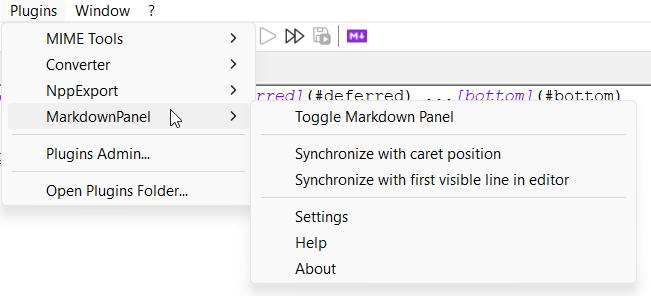
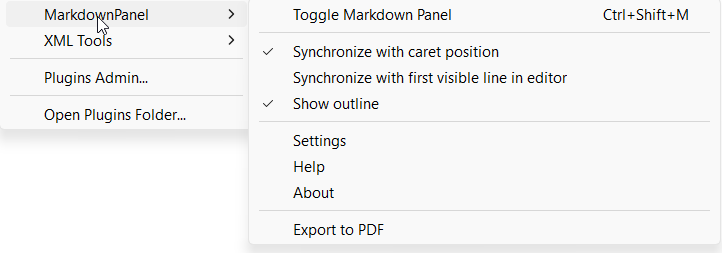
README.md for version 0.9.2 #2

diff --git a/README.md b/README.md
@@ -159,13 +159,21 @@ After that it's possible to use the shortcut to open or close the panel.
 
 ### Version 0.9.2 (released 2026-07-10)
 - Features
-	- Preserve preview scroll position when switching to another file #96
-	- Support (preview) files without an extension #133
-	- Copy to clipboard as formatted text / HTML #128
-	- Text Callouts #141
+	- Allow show/hide of source pane and not just rendered view pane [#138](https://github.com/mohzy83/NppMarkdownPanel/issues/138)) (implemented by letreset)
+		-  see three state toggle
+	- PDF Export [#153](https://github.com/mohzy83/NppMarkdownPanel/issues/153)) (implemented by letreset)
+	- Disable wrapping text [#132](https://github.com/mohzy83/NppMarkdownPanel/issues/132))
+		- min width of 250px introduced
+	- Support of Mermaid [#108](https://github.com/mohzy83/NppMarkdownPanel/issues/108)) (implemented by letreset)
+	- Display document outline [#167](https://github.com/mohzy83/NppMarkdownPanel/issues/167)) (implemented by letreset)
+		- see "Show Outline"
+	- Markdig updated to version 1.3.2
+	- Defer WebView2 initialization (just initialize WebView2 when preview is actually shown) [#164](https://github.com/mohzy83/NppMarkdownPanel/issues/164))
 
 - Bug fixes
-	- Fixed: Undocking the main (preview) window eventually freezes NPP++ #106
+	- Fixed: Local relative path not working with img tag [#84](https://github.com/mohzy83/NppMarkdownPanel/issues/84))
+	- Fixed: Markdown panel black when loading a large table in a detail element [#158](https://github.com/mohzy83/NppMarkdownPanel/issues/158))
+	- Fixed: Add mermaid graph markdown setting pre tag class [#115](https://github.com/mohzy83/NppMarkdownPanel/issues/115))
 
 ### Version 0.9.1 (released 2026-01-19)
 